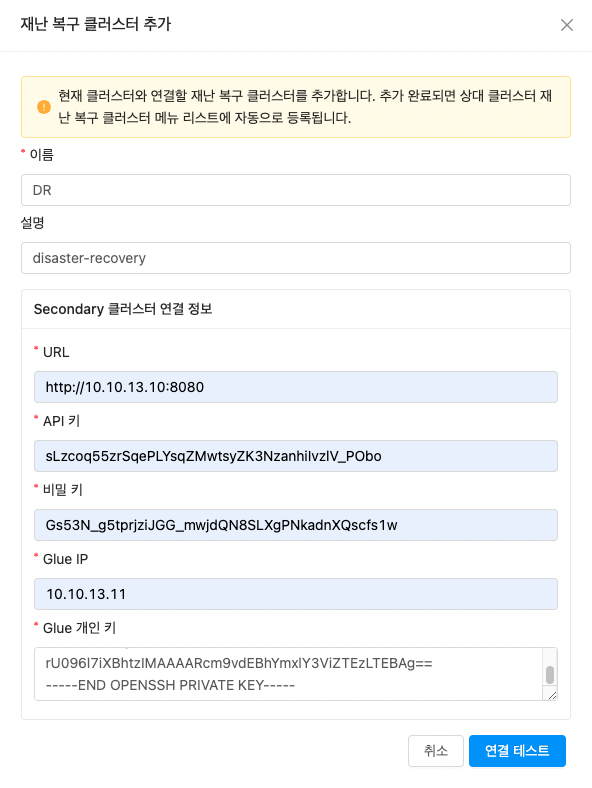
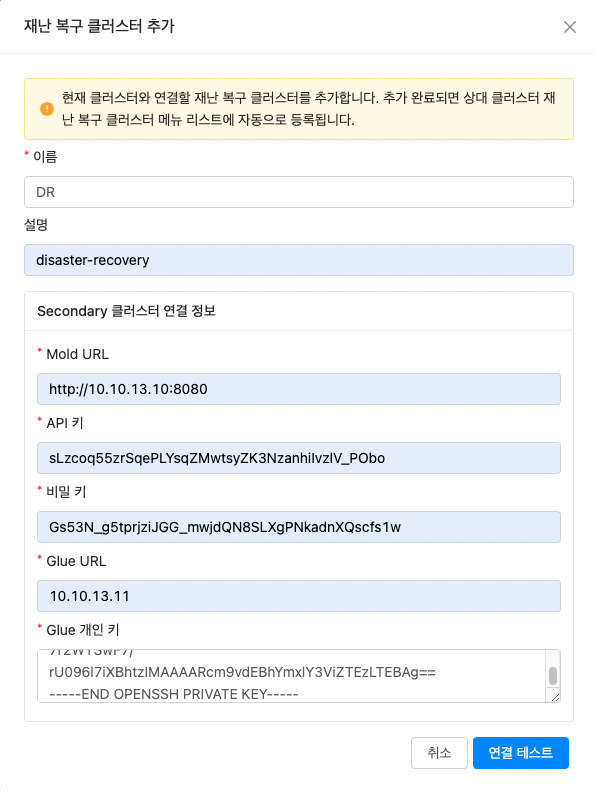
재난 복구 클러스터 추가 UI 변경

diff --git a/docs/administration/mold/dr-mngt-guide.md b/docs/administration/mold/dr-mngt-guide.md
@@ -20,9 +20,9 @@ DR 클러스터를 추가하려면:
 1. 인프라스트럭쳐 > 재난 복구 클러스터 메뉴로 이동하여 **재난복구 클러스터 추가** 버튼을 클릭합니다.
 2. 재난 복구 클러스터 추가 모달에서 다음 필드에 적절한 세부 정보를 입력합니다.
 ![mold-dr-create-cluster](../../assets/images/mold-dr-create-cluster.png)
-    *	URL - Secondary 클러스터 Mold 의 URL로 포트까지 입력합니다.
+    *	MOLD URL - Secondary 클러스터 Mold 의 URL로 포트까지 입력합니다.
     *   API 키, 비밀 키 - Secondary 클러스터 Mold 의 관리자 계정의 API 키, 비밀 키를 입력합니다.
-    *   Glue IP - Secondary 클러스터 Glue 의 IP 를 입력합니다.
+    *   Glue URL - Secondary 클러스터 Glue 의 IP 를 입력합니다.
     *   Glue 개인키 - Secondary 클러스터 Glue 의 /root/.ssh/id_rsa 경로의 개인 키 파일을 입력합니다.
 3. **연결 테스트** 버튼을 클릭하여 Secondary 클러스터의 Mold 와 Glue 상태를 확인하고, 정상인 경우 확인 버튼이 활성화되며 **확인** 버튼을 클릭하여 재난 복구 클러스터를 추가합니다.
 !!! check
